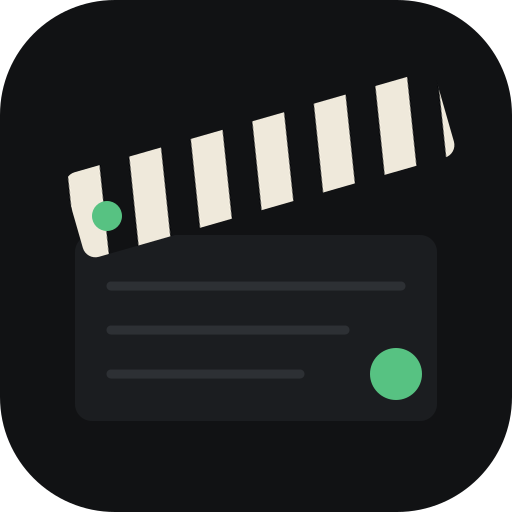
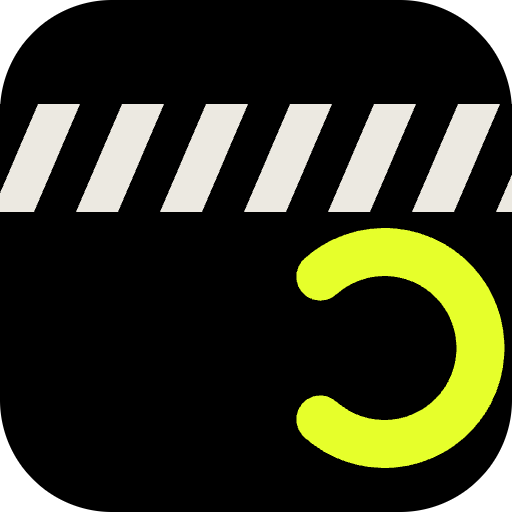
feat(palette): the green ground and the two accents, everywhere outside the CSS
Owner chose this on 2026-08-22 from ~/Desktop/clapper-design/palette-green.html
and said "make it final". This is the half of the port that does NOT live in
styles.css, landed separately because another agent is rebuilding the button
system in that file right now.

  day ground   #e2f0cc   was #fbfaf7 ivory
  night ground #000000   unchanged, and he corrected his own first proposal of
                         #011207 to pitch black: "only in dark mode pitch black
                         not the one i said". No green in any night surface.
  accent day   #0b4650   teal, replaces brass
  accent night #e6ff2b   acid

THE ACCENT SWAP IS FORCED, NOT TASTE. Measured before writing any of it:
#e6ff2b on #e2f0cc is 1.06:1 and #0b4650 on #000000 is 2.12:1, so neither can
ever be used. Teal reads 8.76:1 on the day ground, acid reads 18.70:1 on black.

Three places carry --paper and all three had to move together, which the
comments in index.html and theme.ts already said out loud: the meta theme-color,
THEME_COLOR in theme.ts, and the PWA manifest. The manifest also drives the
splash, which cannot follow a runtime toggle and so takes the day value.

THE ICON GOES NIGHT REGARDLESS OF THEME. A home screen is somebody else's
wallpaper, so the icon has to hold on any of them, and acid on true black is
the highest-contrast pair the palette has. Retires the last live use of --go
#38d178 outside styles.css. Icons regenerated, favicon dots follow.
[…]

diff --git a/vite.config.ts b/vite.config.ts
@@ -25,8 +25,8 @@ export default defineConfig({
         orientation: 'portrait',
         // The PWA splash, which cannot follow a runtime toggle: it takes the
         // default theme. --paper from src/styles.css.
-        background_color: '#fbfaf7',
-        theme_color: '#fbfaf7',
+        background_color: '#e2f0cc',
+        theme_color: '#e2f0cc',
         icons: [
           { src: 'icon-192.png', sizes: '192x192', type: 'image/png' },
           { src: 'icon-512.png', sizes: '512x512', type: 'image/png' },

diff --git a/src/net/pay.ts b/src/net/pay.ts
@@ -134,7 +134,7 @@ export async function startCheckout(plan: PlanKey, prefillEmail?: string): Promi
         name: 'Clapper',
         description: order.label,
         prefill: prefillEmail ? { email: prefillEmail } : undefined,
-        theme: { color: '#0e7a43' }, // --go-fill, the app's own green
+        theme: { color: '#0b4650' }, // --m-accent, the app's own day accent
         handler: (r: RazorpaySuccess) => settle(r),
         modal: { ondismiss: () => settle({ dismissed: true }) },
       });

diff --git a/index.html b/index.html
@@ -19,7 +19,7 @@
     <!-- Kept in sync with the theme by the script below and by src/ui/theme.ts.
          Without that the iOS status bar and the PWA splash stay the other
          theme's colour. -->
-    <meta name="theme-color" content="#fbfaf7" />
+    <meta name="theme-color" content="#e2f0cc" />
 
     <!--
       Theme, applied BEFORE first paint. Doing this in React means a white

diff --git a/src/ui/theme.ts b/src/ui/theme.ts
@@ -21,7 +21,7 @@ export const THEME_KEY = 'clapper.theme';
 
 /** Ground colour per theme: --paper in src/styles.css. Also in index.html. */
 const THEME_COLOR: Record<Theme, string> = {
-  light: '#fbfaf7',
+  light: '#e2f0cc',   // pale green, 2026-08-22; #fbfaf7 was the old ivory
   night: '#000000',   // night is TRUE black now; #0c0d10 was the old charcoal
 };
 
